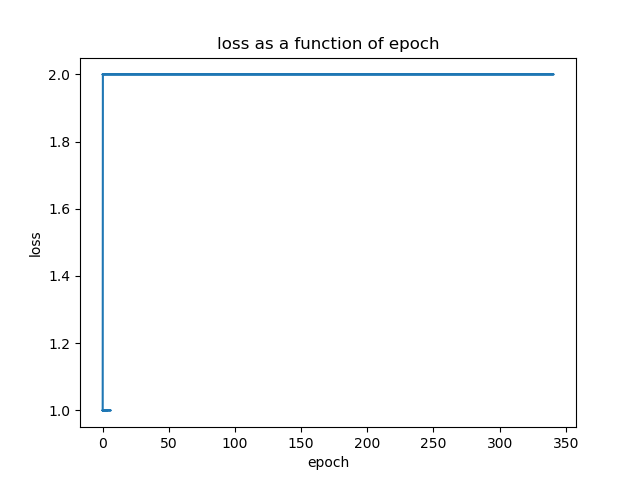
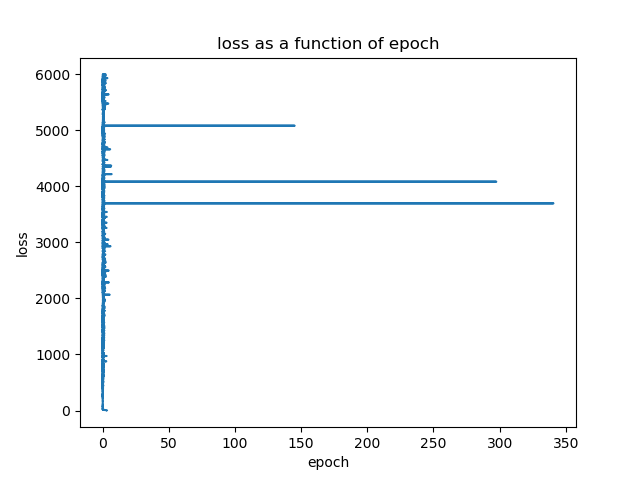
Checking

diff --git a/plot.py b/plot.py
@@ -13,10 +13,10 @@ for data in output:
     if counter > 1 :
       if  "'0101010'" in data:
           epoch_value=epoch_value+1
-          counter=1
+        
       else:
           output_data.append(float(data))
-          epoch.append(epoch_value)
+          epoch.append(counter)
     counter+=1
 plt.title("loss as a function of epoch")
 plt.xlabel("epoch")
